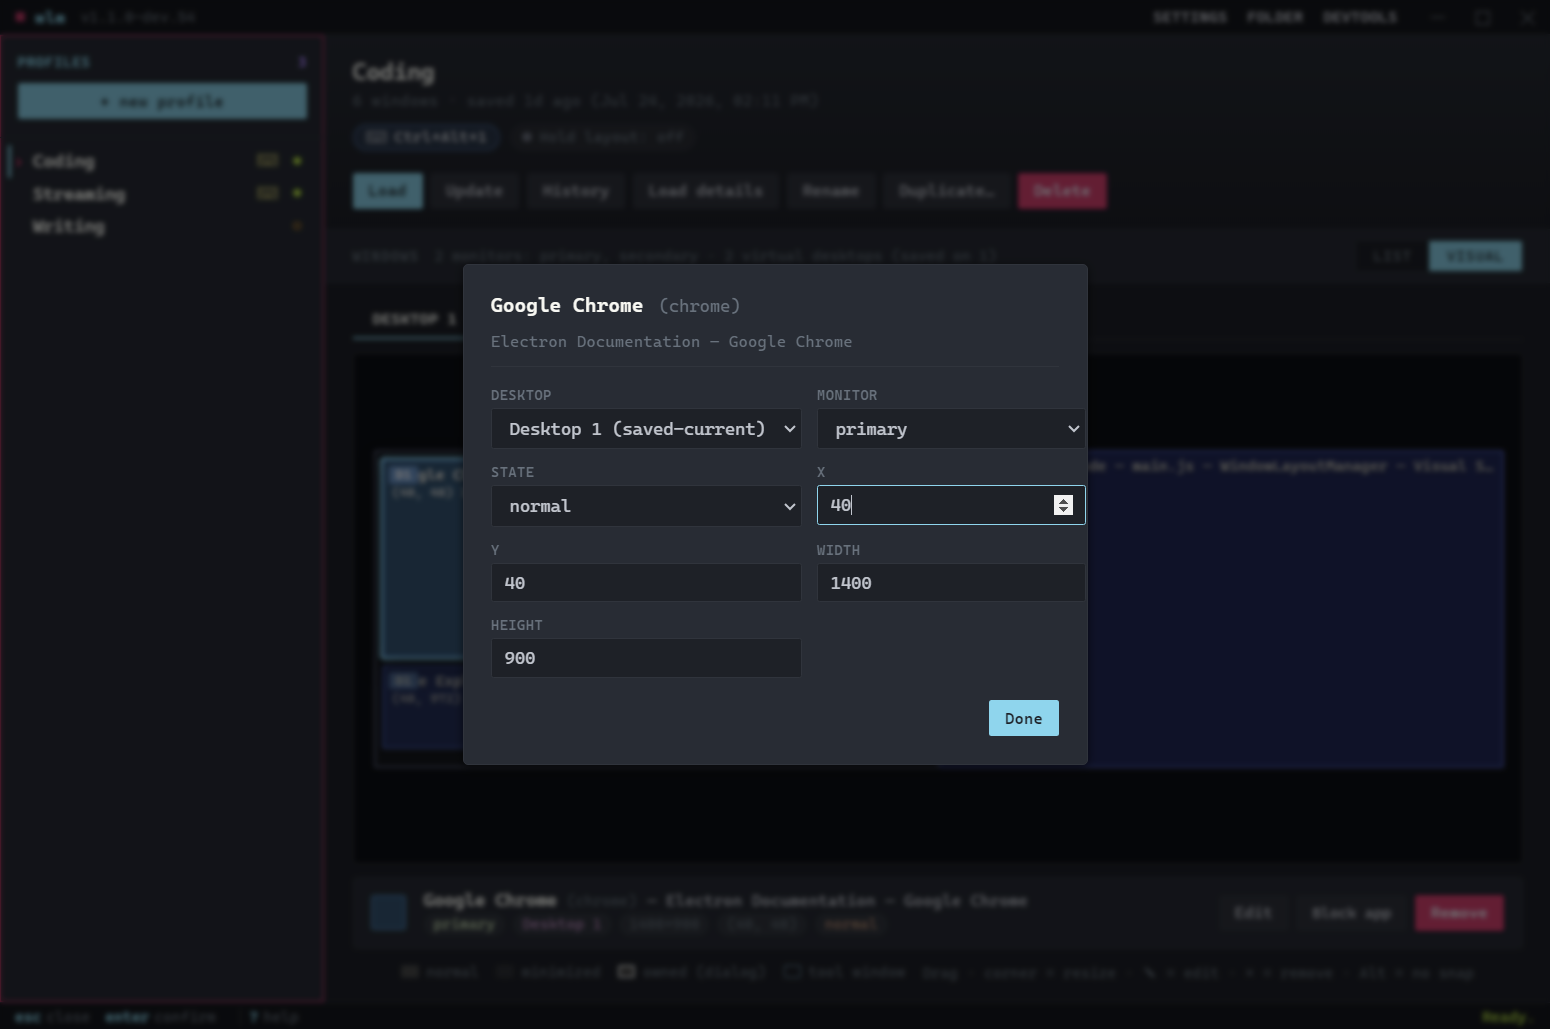
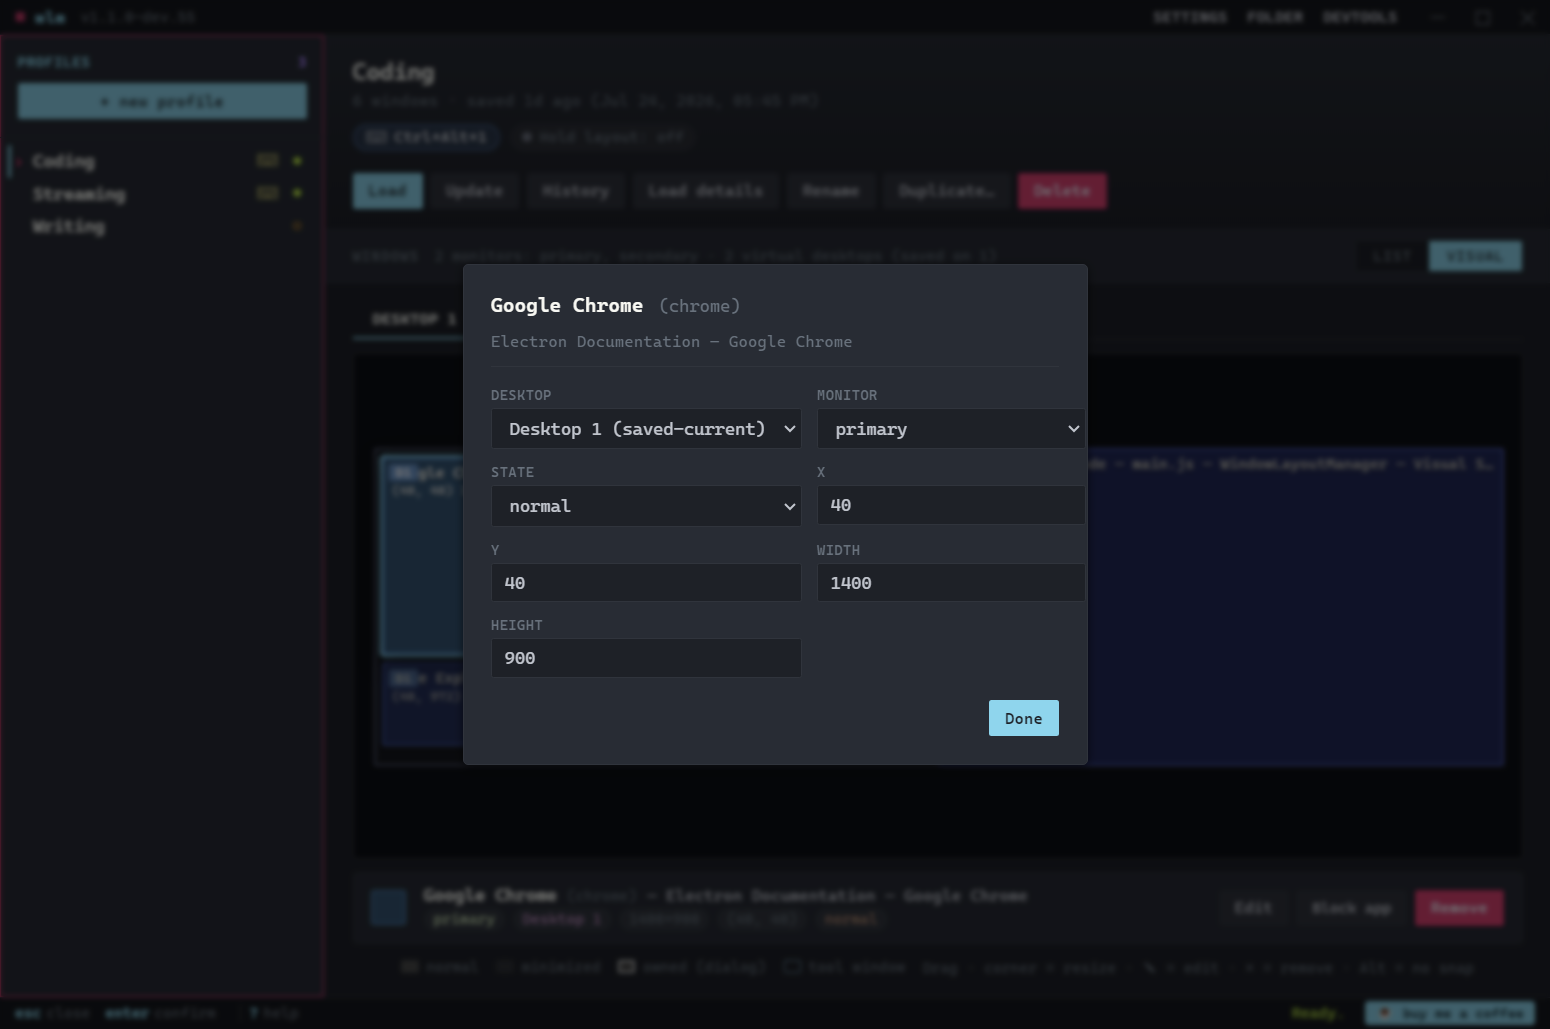
WLM v1.1.0-dev.55: feed, screenshots, drop the update-feed link
Feed and the static download href point at dev.55 (size + sha256
verified against the built zip). Tutorial screenshots regenerated from
that build, so they show the support chip in the status bar. The raw
update-feed link is gone from the download card - it was plumbing on a
page meant for people who just want the app.

Claude-Session: https://claude.ai/code/session_014KfTPNCevtXskfxkABecuc

diff --git a/projects/windowlayoutmanager/index.html b/projects/windowlayoutmanager/index.html
@@ -341,14 +341,11 @@
                overwrites it from the feed, and this static fallback should
                download rather than land on a repo listing. -->
           <a class="btn-download" id="dl-btn"
-             href="https://github.com/defessler/WindowLayoutManager-releases/releases/download/v1.1.0-dev.54/WindowLayoutManager-v1.1.0-dev.54-win-x64.zip">Download for Windows</a>
+             href="https://github.com/defessler/WindowLayoutManager-releases/releases/download/v1.1.0-dev.55/WindowLayoutManager-v1.1.0-dev.55-win-x64.zip">Download for Windows</a>
           <div class="dl-meta">
             <div id="dl-version">latest release<span class="pre-badge" id="dl-pre" hidden>pre-release</span></div>
             <div id="dl-info">x64 · portable .zip</div>
             <div class="dl-sha" id="dl-sha" hidden>sha256: <span class="h" id="dl-sha-hex"></span></div>
-          </div>
-          <div class="dl-links">
-            <a href="updates.json">update feed</a>
           </div>
         </div>
         <details class="notes" id="notes-wrap" hidden>
